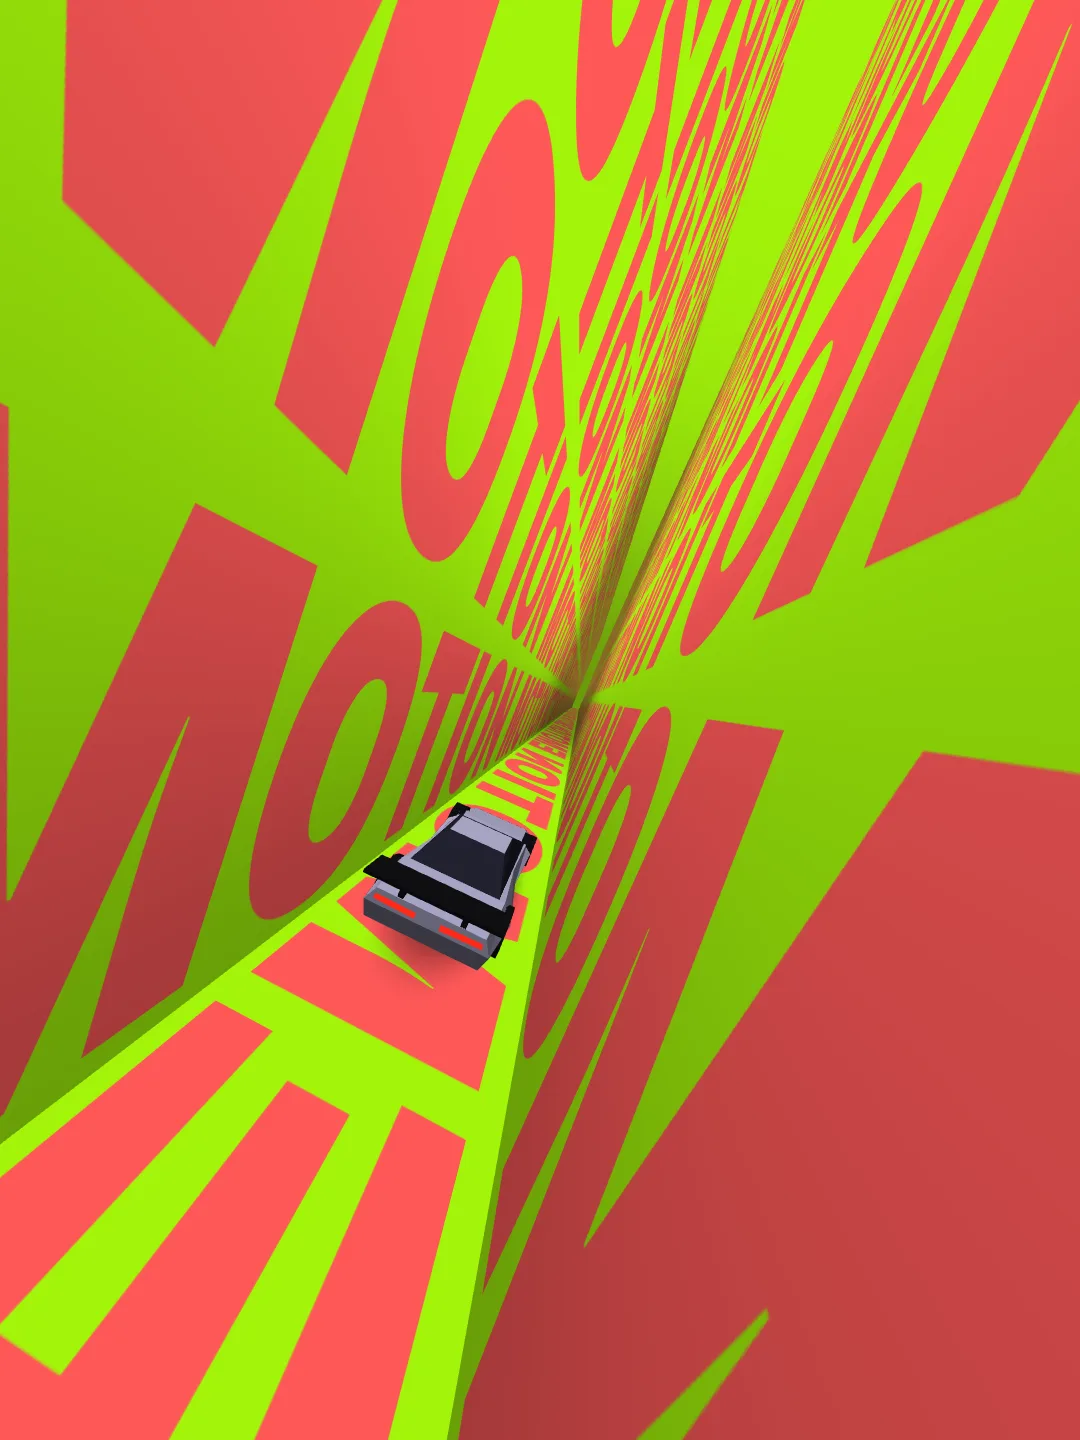
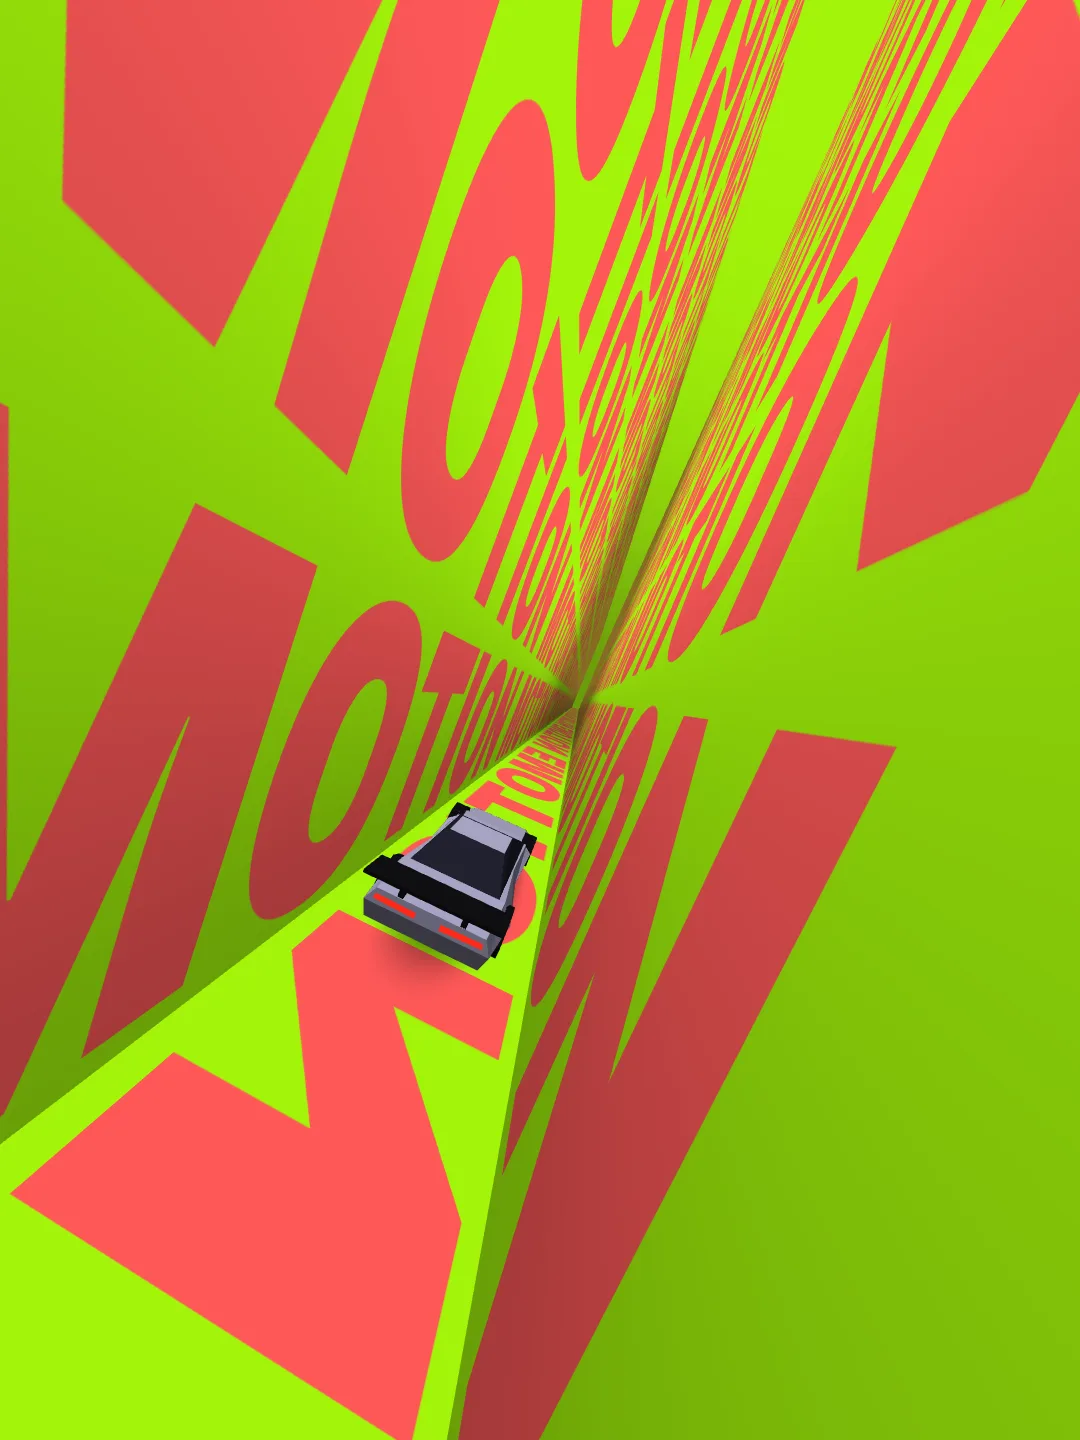
Corredor: sin balanceo, suelo y pared derecha invertidos
- Se elimina el balanceo horizontal y vertical del punto de fuga.
- El texto del suelo se gira 180° y la pared derecha vuelve a leerse
  MOTION de frente. Ambos quedan como botones (INVERTIR SUELO /
  INVERTIR DERECHA), activados por defecto.

Claude-Session: https://claude.ai/code/session_015Ei6rKT9R3QTQAPas9teZr

diff --git a/public/tools/corredor.html b/public/tools/corredor.html
@@ -722,6 +722,10 @@ html.glam-alt, html.glam-alt body, html.glam-alt #frame, html.glam-alt .tss{back
             <div id="slCam"></div>
             <div class="y-sec">corredor</div>
             <div id="slGeo"></div>
+            <div class="y-btns">
+              <button type="button" class="cam-btn" id="tInvSuelo">INVERTIR SUELO</button>
+              <button type="button" class="cam-btn" id="tInvDer">INVERTIR DERECHA</button>
+            </div>
           </div>
         </div>
 
@@ -798,7 +802,7 @@ $('mhouse').addEventListener('click',goHome); $('mclose').addEventListener('clic
    largo del pasillo, hacia el punto de fuga. La cámara se balancea:
    el punto de fuga se mueve y las letras se estiran y se encogen.
    Loop: todo depende de una fase 0→1. En una vuelta el texto avanza
-   un número entero de palabras y el balanceo vuelve a su inicio, así
+   un número entero de palabras y el carro cierra su rebote, así
    el último cuadro empalma con el primero.
    ═════════════════════════════════════════════════════════ */
 const IW=1080, IH=1440;
@@ -812,14 +816,14 @@ const BASE={
   estirar:.42,             // largo de cada palabra a lo largo del pasillo
   // cámara
   yaw:5, pitch:-5.5, roll:22,
-  balanceoX:0, balanceoY:0,      // grados que se mueve el punto de fuga en el loop
   fov:129,
   camX:.4, camY:-.2,              // posición de la cámara dentro del pasillo
   // movimiento
   duracion:8.5, avance:5, sentido:-1, pausa:false,
   // corredor
   ancho:.3, largo:46, extension:2.2, altoFilas:.99,
-  franjasPared:7, altoPared:1.4,  // las paredes llevan N franjas; arriba queda abierto (cielo)
+  franjasPared:7, altoPared:1.4,
+  invSuelo:true, invDerecha:true,   // invierte el texto del suelo (180°) y el de la pared derecha  // las paredes llevan N franjas; arriba queda abierto (cielo)
   // color
   fondo:'#A3F50A', tinta:'#FE5858', cielo:'#A3F50A', nieblaColor:'#0A0A0A', niebla:.38, nieblaInicio:4.5, degradadoCielo:.89,
   sombra:.35, sombraAlto:2.5,   // sombra en las paredes desde el suelo
@@ -975,13 +979,13 @@ async function hacerTexturas(p){
   generando=true;
   const f=fuenteActual();
   try{ await document.fonts.load(`${f.peso} 100px ${f.fam}`,P.textos.join('')); }catch(e){}
-  for(let i=0;i<3;i++){ const r=crearTextura(p,P.textos[i],i===2); tex[i]=r.img; aspectoTex[i]=r.aspecto/r.reps; repsTex[i]=r.reps; mipmaps(p,r.img); }
+  for(let i=0;i<3;i++){ const r=crearTextura(p,P.textos[i],i===2&&!P.invDerecha); tex[i]=r.img; aspectoTex[i]=r.aspecto/r.reps; repsTex[i]=r.reps; mipmaps(p,r.img); }
   generando=false;
 }
 
 /* ─────────── geometría: una cara del pasillo, subdividida a lo largo ─────────── */
 // esquina(s, t): punto 3D a lo largo (s = profundidad) y a través (t = 0..1)
-function cara(p,esquina,largo,filas,aspecto,reps,altoFila,dir){
+function cara(p,esquina,largo,filas,aspecto,reps,altoFila,dir,voltear){
   const largoPalabra=altoFila*aspecto*P.estirar;       // proporción real de la palabra
   p.beginShape(p.TRIANGLE_STRIP);
   const N=120;
@@ -989,8 +993,8 @@ function cara(p,esquina,largo,filas,aspecto,reps,altoFila,dir){
     const s=Math.pow(i/N,1.6)*largo;                    // más cortes cerca de la cámara
     const u=dir*s/largoPalabra/reps;                         // la textura trae 'reps' palabras
     const a=esquina(s,0), b=esquina(s,1);
-    p.vertex(a[0],a[1],a[2],u,0);
-    p.vertex(b[0],b[1],b[2],u,filas);
+    p.vertex(a[0],a[1],a[2],u,voltear?filas:0);
+    p.vertex(b[0],b[1],b[2],u,voltear?0:filas);
   }
   p.endShape();
 }
@@ -1106,10 +1110,9 @@ function dibujar(p,ph){
   p.resetMatrix();
   p.perspective(P.fov*d2r,IW/IH,.01,4000);
   p.camera(0,0,0,0,0,-1,0,1,0);
-  // balanceo del punto de fuga: cierra en el loop
   p.rotateZ(P.roll*d2r);
-  p.rotateX((P.pitch+P.balanceoY*Math.sin(a+Math.PI/2))*d2r);
-  p.rotateY(-(P.yaw+P.balanceoX*Math.sin(a))*d2r);
+  p.rotateX(P.pitch*d2r);
+  p.rotateY(-P.yaw*d2r);
   // cielo
   p.shader(skySh);
   skySh.setUniform('uCielo',hexRGB(P.cielo)); skySh.setUniform('uNieblaCol',hexRGB(P.nieblaColor));
@@ -1130,14 +1133,14 @@ function dibujar(p,ph){
   // p5 WEBGL: y hacia abajo. Suelo en y = +h; arriba de las paredes no hay nada: se ve el cielo.
   const caras=[
     {esq:(s,t)=>[-w, top+hp*t, -s], filas:hp/fp, fila:fp, dir:1, pared:1},        // pared izquierda
-    {esq:(s,t)=>[xR-anchoSuelo*t, h, -s], filas:1, fila:2*h*P.altoFilas, dir:1, pared:0},  // suelo: una fila que llena todo el ancho
+    {esq:(s,t)=>[xR-anchoSuelo*t, h, -s], filas:1, fila:2*h*P.altoFilas, dir:P.invSuelo?-1:1, voltear:P.invSuelo, pared:0},  // suelo: una fila que llena todo el ancho
     {esq:(s,t)=>[xR, top+hp*t, -s], filas:hp/fp, fila:fp, dir:-1, pared:1},       // pared derecha
   ];
   for(let i=0;i<3;i++){
     const c=caras[i];
     sh.setUniform('uTex',tex[i]); sh.setUniform('uPared',c.pared);
     sh.setUniform('uScroll',c.dir*sc/repsTex[i]);              // avanza palabras enteras: sin salto
-    cara(p,c.esq,L,c.filas,aspectoTex[i],repsTex[i],c.fila,c.dir);
+    cara(p,c.esq,L,c.filas,aspectoTex[i],repsTex[i],c.fila,c.dir,!!c.voltear);
   }
   if(P.carro){
     // centrado en el suelo, a 'carroDist' de la cámara; mira hacia donde avanza el pasillo
@@ -1248,8 +1251,6 @@ slider('slType','estirar','Largo de la palabra',.2,4,.01);
 slider('slCam','yaw','Punto de fuga X (giro)',-70,70,.5);
 slider('slCam','pitch','Punto de fuga Y (inclinación)',-45,45,.5);
 slider('slCam','roll','Rotación (°)',-180,180,.5);
-slider('slCam','balanceoX','Balanceo horizontal (°)',0,40,.5);
-slider('slCam','balanceoY','Balanceo vertical (°)',0,40,.5);
 slider('slCam','fov','Perspectiva (FOV)',30,130,1);
 slider('slCam','camX','Cámara cerca de la pared',-.95,.95,.01);
 slider('slCam','camY','Cámara arriba / abajo',-.95,.95,.01);
@@ -1260,6 +1261,10 @@ slider('slGeo','extension','Pared derecha (ancho del suelo)',.2,8,.1);
 slider('slGeo','altoFilas','Largo de letras del suelo',.2,4,.01);
 slider('slGeo','franjasPared','Franjas en las paredes',1,8,1);
 slider('slGeo','altoPared','Alto de franja (paredes)',.2,3,.01);
+$('tInvSuelo').addEventListener('click',()=>{ P.invSuelo=!P.invSuelo; repaint(); });
+painters.push(()=>$('tInvSuelo').setAttribute('aria-pressed',!!P.invSuelo));
+$('tInvDer').addEventListener('click',()=>{ P.invDerecha=!P.invDerecha; repaint(); regenerar(); });
+painters.push(()=>$('tInvDer').setAttribute('aria-pressed',!!P.invDerecha));
 // color
 grupo('gPal',Object.keys(PALETAS),()=>Object.keys(PALETAS).find(n=>PALETAS[n][0]===P.fondo&&PALETAS[n][1]===P.tinta),n=>{ [P.fondo,P.tinta]=PALETAS[n]; });
 colorRow('fondo','Fondo franjas'); colorRow('tinta','Letras'); colorRow('cielo','Cielo'); colorRow('nieblaColor','Niebla');
